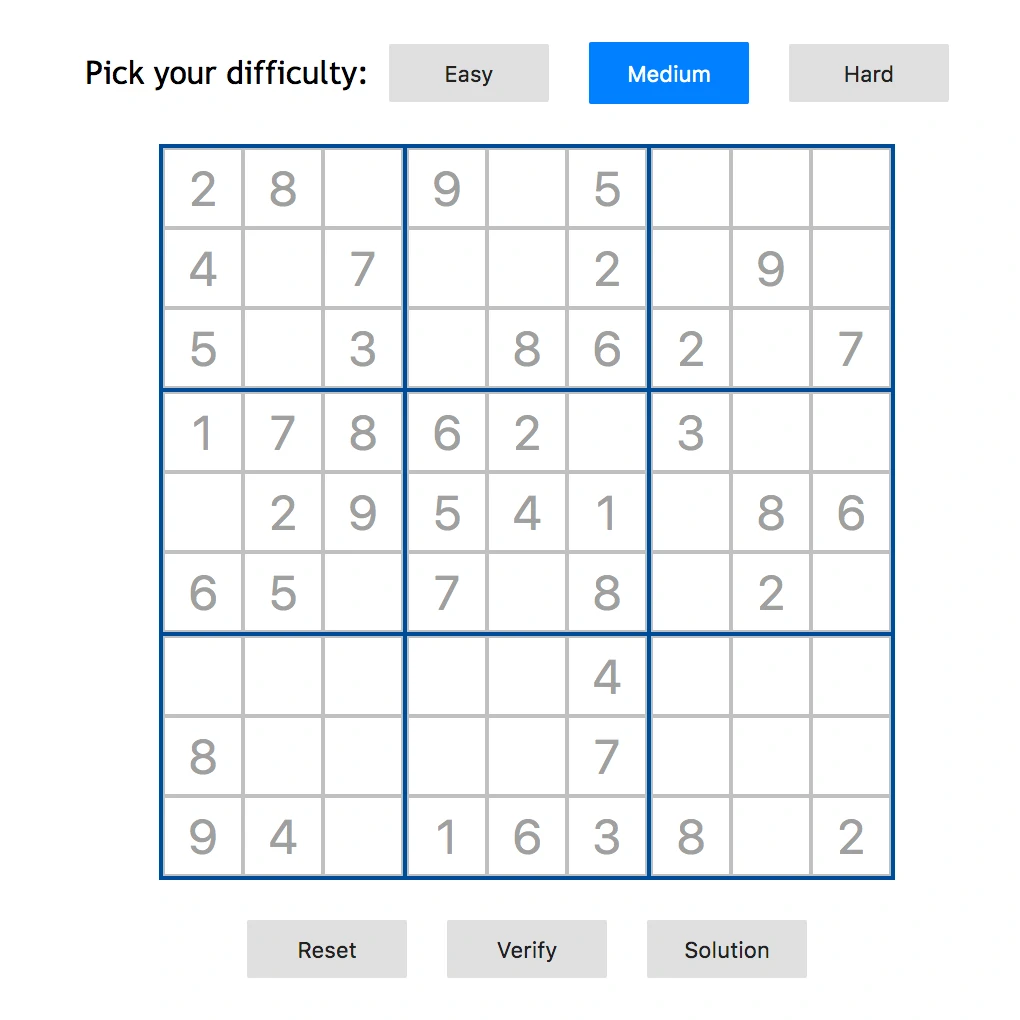
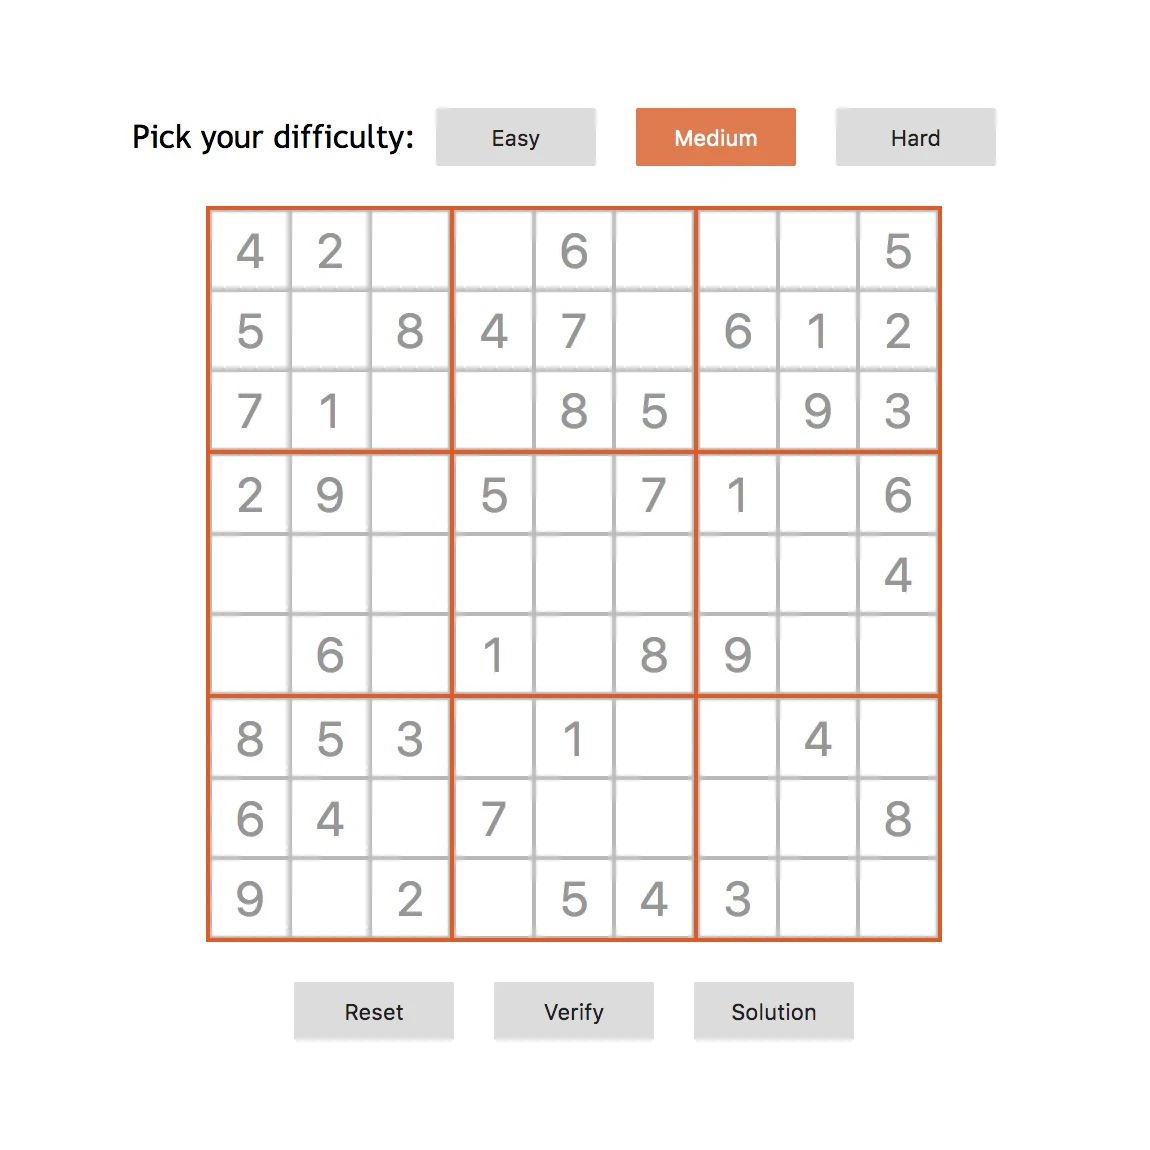
update color scheme

Changed region(s): [[0.0608, 0.0304, 0.9422, 0.9725]]

diff --git a/src/app/shared/styles/colours.scss b/src/app/shared/styles/colours.scss
@@ -4,7 +4,7 @@ $ludan-colors: (
   'primary': (
     'base': #e3875a,
     'light': #d9534f,
-    'dark': #c9302c
+    'dark': #e0682d
   ),
   'accent': (
     'base': #f44336,
